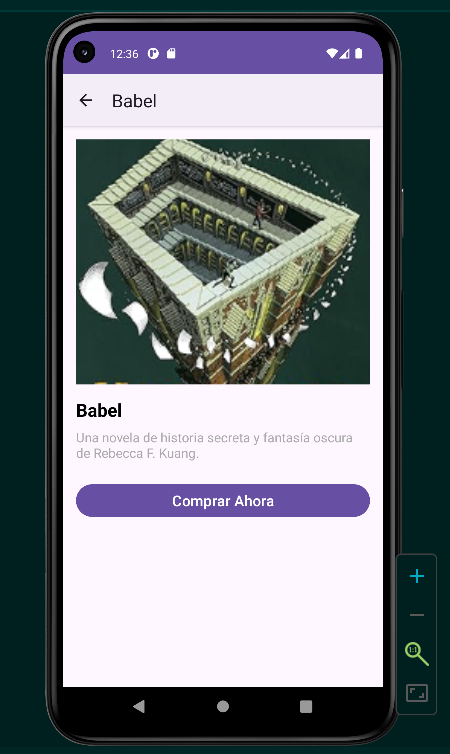
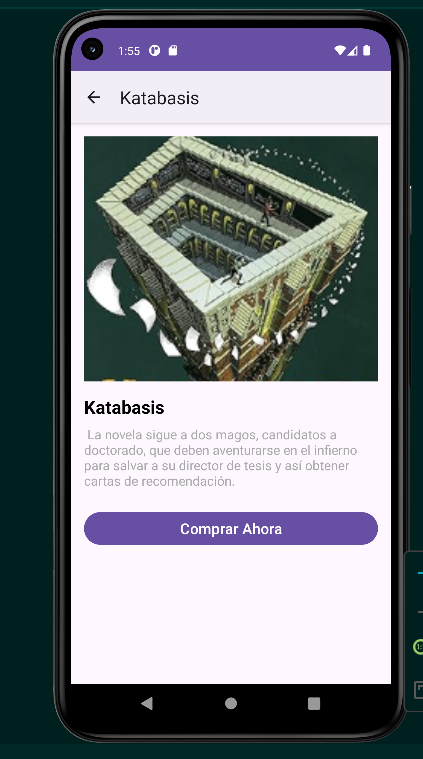
Se agregan imagenes, se actualizan tambien las del readme.md. Solo queda pendiente lo del viewBinding

diff --git a/app/src/main/java/com/example/libreriaonlineapp/HomeFragment.java b/app/src/main/java/com/example/libreriaonlineapp/HomeFragment.java
@@ -31,24 +31,24 @@ public class HomeFragment extends Fragment {
 
         // Crear la lista de libros -> Debo cambiar imagenes
         listaLibros = new ArrayList<>();
-        listaLibros.add(new Libro("Babel", "Una novela de historia secreta y fantasía oscura de Rebecca F. Kuang.", R.drawable.libro1, "Fantasía Histórica"));
-        listaLibros.add(new Libro("La República del Dragón", "Una épica de fantasía de la aclamada autora Rebecca F. Kuang.", R.drawable.libro1, "Fantasía"));
-        listaLibros.add(new Libro("Proyecto Hail Mary", "Una historia de supervivencia intergaláctica de Andy Weir.", R.drawable.libro1, "Ciencia Ficción"));
-        listaLibros.add(new Libro("Dune", "La obra maestra de ciencia ficción de Frank Herbert.", R.drawable.libro1, "Ciencia Ficción"));
-        listaLibros.add(new Libro("El Problema de los Tres Cuerpos", "El inicio de una trilogía de Liu Cixin que redefine la ciencia ficción moderna.", R.drawable.libro1, "Ciencia Ficción"));
-        listaLibros.add(new Libro("Katabasis", " La novela sigue a dos magos, candidatos a doctorado, que deben aventurarse en el infierno para salvar a su director de tesis y así obtener cartas de recomendación.", R.drawable.libro1, "Ciencia Ficción"));
-        listaLibros.add(new Libro("La Tumba del Emperador", "El primer libro de una serie de fantasía oscura y ciencia ficción de Tamsyn Muir.", R.drawable.libro1, "Fantasía Oscura"));
-        listaLibros.add(new Libro("La Guerra de la Amapola", "El primer libro de la trilogía bélica de fantasía de R.F. Kuang.", R.drawable.libro1, "Fantasía Bélica"));
-        listaLibros.add(new Libro("Cuentos de Terramar", "Una serie de fantasía clásica de Ursula K. Le Guin.", R.drawable.libro1, "Fantasía Clásica"));
-        listaLibros.add(new Libro("El Asesino de Mago", "Un thriller de fantasía de Robin Hobb.", R.drawable.libro1, "Fantasía"));
-        listaLibros.add(new Libro("Gideon la Novena", "Ciencia ficción y fantasía oscura de Tamsyn Muir.", R.drawable.libro1, "Ciencia Ficción"));
-        listaLibros.add(new Libro("El Principito", "Fábula filosófica de Antoine de Saint-Exupéry.", R.drawable.libro1, "Fábula"));
-        listaLibros.add(new Libro("Matilda", "Una niña genio que descubre sus poderes, de Roald Dahl.", R.drawable.libro1, "Ficción"));
-        listaLibros.add(new Libro("Donde Viven los Monstruos", "Una aventura de Max en un mundo imaginario.", R.drawable.libro1, "Infantil"));
-        listaLibros.add(new Libro("El Grúfalo", "Un ratón ingenioso se enfrenta a una criatura espantosa.", R.drawable.libro1, "Infantil"));
-        listaLibros.add(new Libro("La Telaraña de Carlota", "Una historia de amistad entre una araña y un cerdo.", R.drawable.libro1, "Infantil"));
-        listaLibros.add(new Libro("El Libro de la Selva", "Las aventuras de Mowgli en la selva, de Rudyard Kipling.", R.drawable.libro1, "Clásico"));
-        listaLibros.add(new Libro("Harry Potter y la Piedra Filosofal", "El inicio de las aventuras de Harry Potter en Hogwarts.", R.drawable.libro1, "Fantasía"));
+        listaLibros.add(new Libro("Babel", "Una novela de historia secreta y fantasía oscura de Rebecca F. Kuang.", R.drawable.babel, "Fantasía Histórica"));
+        listaLibros.add(new Libro("La República del Dragón", "Una épica de fantasía de la aclamada autora Rebecca F. Kuang.", R.drawable.republica_dragon, "Fantasía"));
+        listaLibros.add(new Libro("Proyecto Hail Mary", "Una historia de supervivencia intergaláctica de Andy Weir.", R.drawable.proyecto_hail_mary, "Ciencia Ficción"));
+        listaLibros.add(new Libro("Dune", "La obra maestra de ciencia ficción de Frank Herbert.", R.drawable.dune, "Ciencia Ficción"));
+        listaLibros.add(new Libro("El Problema de los Tres Cuerpos", "El inicio de una trilogía de Liu Cixin que redefine la ciencia ficción moderna.", R.drawable.el_problema_de_los_tres_cuerpos, "Ciencia Ficción"));
+        listaLibros.add(new Libro("Katabasis", " La novela sigue a dos magos, candidatos a doctorado, que deben aventurarse en el infierno para salvar a su director de tesis y así obtener cartas de recomendación.", R.drawable.katabasis, "Ciencia Ficción"));
+        listaLibros.add(new Libro("La Tumba del Emperador", "El primer libro de una serie de fantasía oscura y ciencia ficción de Tamsyn Muir.", R.drawable.la_tumba_del_emperador, "Fantasía Oscura"));
+        listaLibros.add(new Libro("La Guerra de la Amapola", "El primer libro de la trilogía bélica de fantasía de R.F. Kuang.", R.drawable.la_guerra_de_la_amapola, "Fantasía Bélica"));
+        listaLibros.add(new Libro("Cuentos de Terramar", "Una serie de fantasía clásica de Ursula K. Le Guin.", R.drawable.cuentos_de_terramar, "Fantasía Clásica"));
+        listaLibros.add(new Libro("Asesino Real", "Un thriller de fantasía de Robin Hobb.", R.drawable.asesino_real, "Fantasía"));
+        listaLibros.add(new Libro("Harrow La Novena", "Ciencia ficción y fantasía oscura de Tamsyn Muir.", R.drawable.harrow_la_novena, "Ciencia Ficción"));
+        listaLibros.add(new Libro("El Principito", "Fábula filosófica de Antoine de Saint-Exupéry.", R.drawable.el_principito, "Fábula"));
+        listaLibros.add(new Libro("Matilda", "Una niña genio que descubre sus poderes, de Roald Dahl.", R.drawable.matilda, "Infantil"));
+        listaLibros.add(new Libro("Donde Viven los Monstruos", "Una aventura de Max en un mundo imaginario, de Maurice Sendak.", R.drawable.donde_viven_los_monstruos, "Infantil"));
+        listaLibros.add(new Libro("El Grúfalo", "Un ratón ingenioso se enfrenta a una criatura espantosa, de Julia Donaldson.", R.drawable.el_grufalo, "Infantil"));
+        listaLibros.add(new Libro("La Telaraña de Carlota", "Una historia de amistad entre una araña y un cerdo.", R.drawable.la_telarana_de_carlota, "Infantil"));
+        listaLibros.add(new Libro("El Libro de la Selva", "Las aventuras de Mowgli en la selva, de Rudyard Kipling.", R.drawable.el_libro_de_la_selva, "Clásico"));
+        listaLibros.add(new Libro("Harry Potter y la Piedra Filosofal", "El inicio de las aventuras de Harry Potter en Hogwarts.", R.drawable.harry_potter_y_la_piedra_filosofal, "Fantasía"));
 
         // Guardar copia original
         listaLibrosCompleta = new ArrayList<>(listaLibros);

diff --git a/app/src/main/java/com/example/libreriaonlineapp/DetalleLibroActivity.java b/app/src/main/java/com/example/libreriaonlineapp/DetalleLibroActivity.java
@@ -27,7 +27,7 @@ public class DetalleLibroActivity extends AppCompatActivity {
         // Obtener datos del Intent
         String titulo = getIntent().getStringExtra("TITULO_LIBRO");
         String descripcion = getIntent().getStringExtra("DESCRIPCION_LIBRO");
-        int imagenId = getIntent().getIntExtra("IMAGEN_LIBRO", R.drawable.libro1);
+        int imagenId = getIntent().getIntExtra("IMAGEN_LIBRO", R.drawable.katabasis);
 
         // Mostrar datos
         if (titulo != null) {
